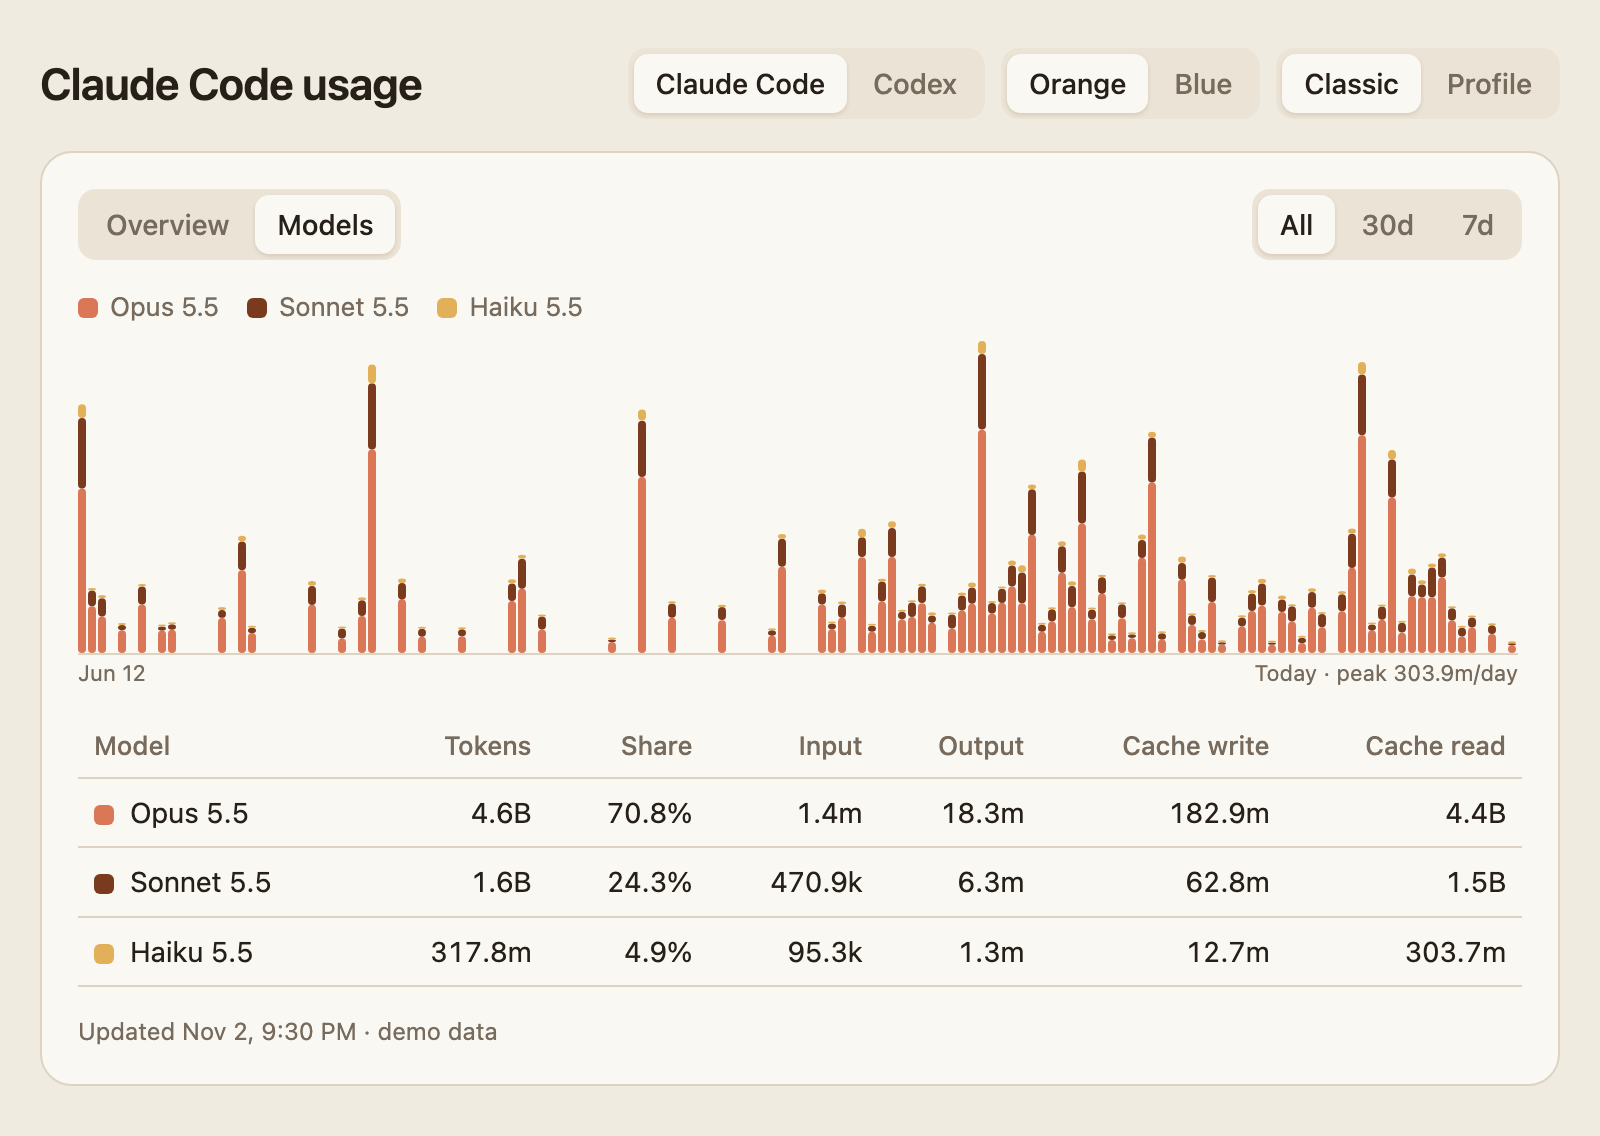
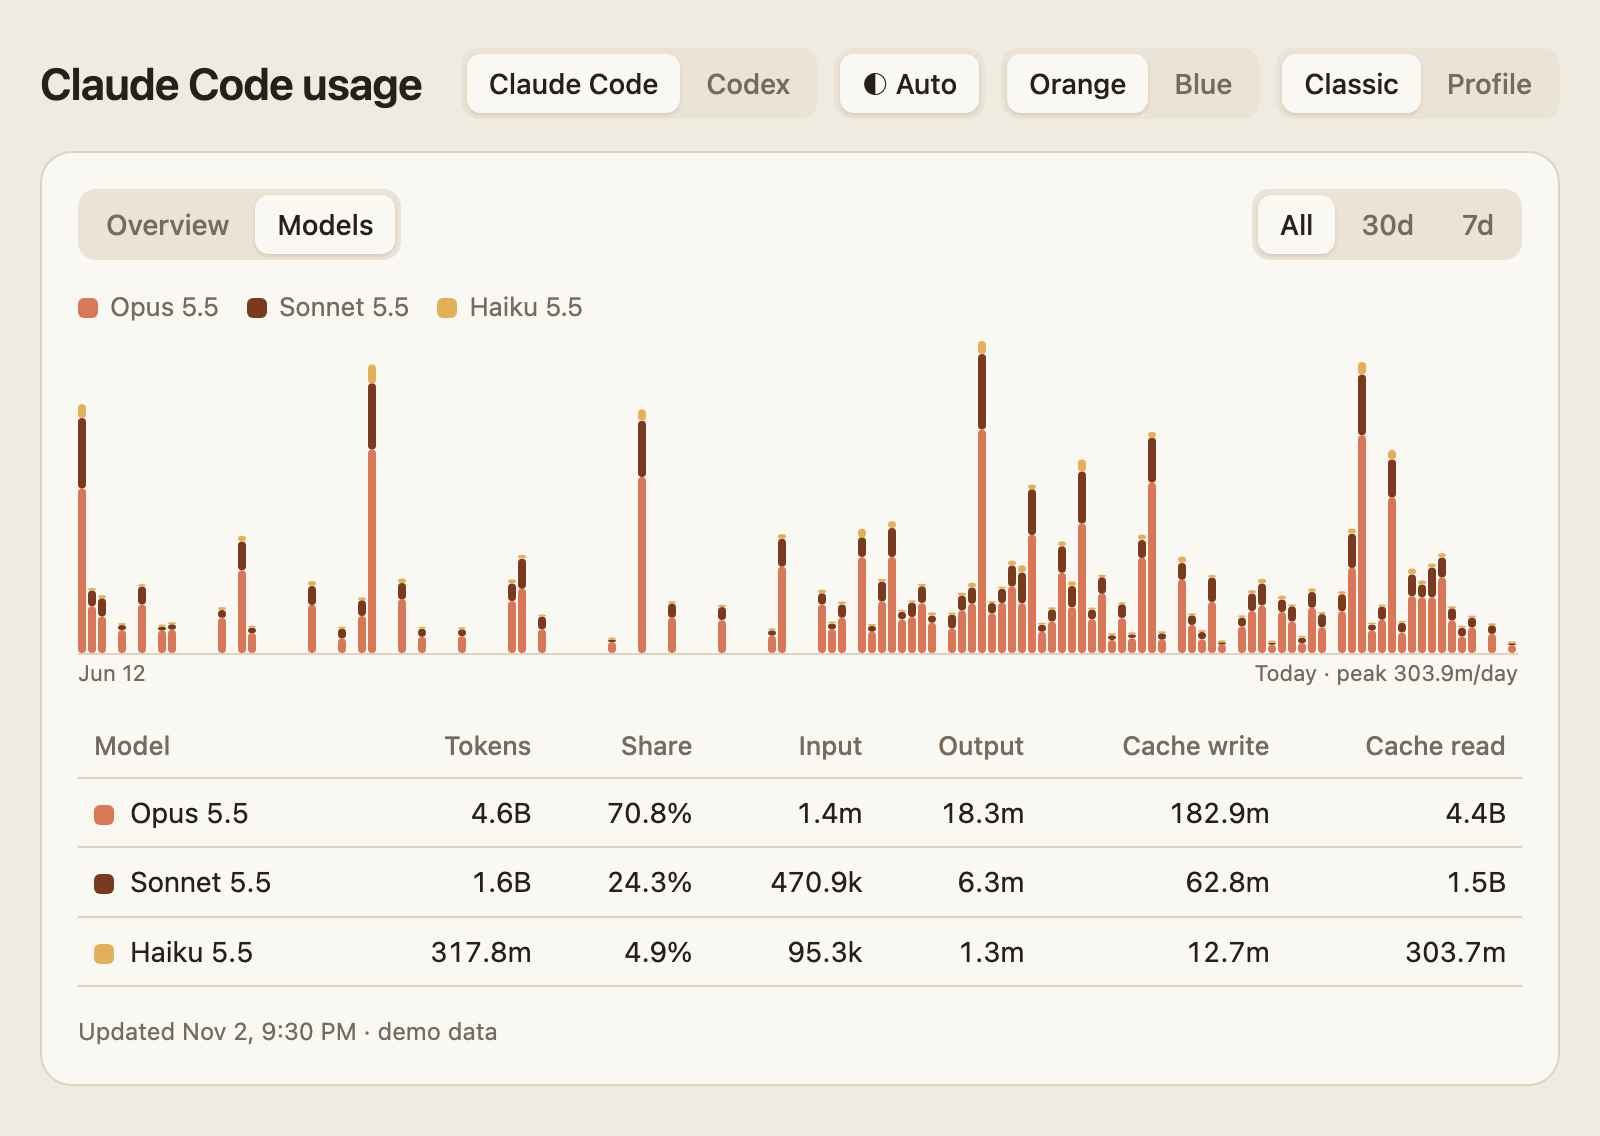
Add auto, light and dark appearance
One button cycles the three, and auto follows the computer live. Both Classic themes gain a dark palette and Profile gains a light one, so Profile is no longer always dark.

Changed region(s): [[0.3125, 0.0308, 0.625, 0.1232]]

diff --git a/docs/index.html b/docs/index.html
@@ -67,8 +67,14 @@
   .switches { display: flex; flex-wrap: wrap; gap: 8px; }
   html.blue { --ground: #fcfcfb; --card: #f0f0ef; --tile: #d9d9d8; --line: #e2e2e0; --ink: #1f1f1e; --muted: #7c7c79;
     --accent: #2566d0; --tip: #1f1f1e; --h0: #d9d9d8; --h1: #86acea; --h2: #6394e3; --h3: #407cdd; --h4: #2566d0; }
+  html.dark { color-scheme: dark; --ground: #1f1b16; --card: #2a241d; --tile: #352e25; --line: #453c31; --ink: #f3ece1; --muted: #a99c8b;
+    --accent: #e8875a; --tip: #4a4036; --h0: #3a3229; --h1: #6b3a22; --h2: #9c5230; --h3: #cf7347; --h4: #f0a274; }
+  html.blue.dark { --ground: #1c1c1b; --card: #262625; --tile: #333332; --line: #3d3d3b; --ink: #f2f2f0; --muted: #a0a09c;
+    --accent: #5a90e6; --tip: #454543; --h0: #333332; --h1: #1f4a96; --h2: #2f6bd1; --h3: #5a90e6; --h4: #8fb6f0; }
   html.profile { --ground: #171717; --card: #2b2b2b; --tile: #2b2b2b; --line: #333; --ink: #f4f4f4; --muted: #8f8f8f;
-    --tip: #3a3a3a; --h0: #2f2f2f; --h1: #16356b; --h2: #1f4f9c; --h3: #3b82f6; --h4: #7cb4f7; }
+    --tip: #3a3a3a; --h0: #2f2f2f; --h1: #16356b; --h2: #1f4f9c; --h3: #3b82f6; --h4: #7cb4f7; color-scheme: dark; }
+  html.profile.light { --ground: #fff; --card: #fff; --tile: #f0f0f0; --line: #e5e5e5; --ink: #171717; --muted: #6e6e6e;
+    --tip: #171717; --h0: #ececec; --h1: #bcd5fb; --h2: #7cb4f7; --h3: #3b82f6; --h4: #1f4f9c; color-scheme: light; }
   #profile { padding-top: 12px; }
   .who { text-align: center; }
   .avatar { width: 112px; height: 112px; margin: 0 auto 16px; border-radius: 50%; background: #98a6a6; color: #fff;
@@ -107,6 +113,7 @@
         <button data-source="claude">Claude Code</button>
         <button data-source="codex">Codex</button>
       </div>
+      <div class="seg"><button id="appearance" aria-pressed="true"></button></div>
       <div class="seg" id="themes">
         <button data-theme="orange">Orange</button>
         <button data-theme="blue">Blue</button>
@@ -192,7 +199,10 @@ const LUCK = Math.random();
 const PALETTES = {
   orange: ["#d97757", "#7a3a1e", "#e3b05a", "#8a6d3b", "#5f86c9", "#a86fc4", "#6b8a3a", "#9a8f7a"],
   blue: ["#2566d0", "#6394e3", "#86acea", "#1b4a96", "#a9c4f0", "#407cdd", "#c6d8f5", "#7c7c79"],
+  orangeDark: ["#e8875a", "#f2c14e", "#b5764a", "#d9c2a0", "#7da7e0", "#c08fd6", "#9bbb5e", "#a99c8b"],
+  blueDark: ["#5a90e6", "#9cc0f5", "#2f6bd1", "#c6d8f5", "#3e5f9c", "#7f9fd6", "#e0e0dc", "#a0a09c"],
 };
+const LOOKS = { auto: "◐ Auto", light: "☀ Light", dark: "☾ Dark" };
 
 const pick = (k, d) => { try { return localStorage.getItem(k) || d; } catch { return d; } };
 const keep = (k, v) => { try { localStorage.setItem(k, v); } catch {} };
@@ -200,10 +210,14 @@ let tab = pick("cu.tab", "overview");
 let range = pick("cu.range", "all");
 let style = pick("cu.style", "card");
 let theme = pick("cu.theme", "orange");
+let appearance = pick("cu.appearance", "auto");
 let mode = pick("cu.mode", "daily");
 let source = new URLSearchParams(location.search).get("source") || pick("cu.source", "claude");
 if (!SOURCES[source]) source = SOURCES.claude ? "claude" : "codex";
 let DATA;
+
+const systemDark = matchMedia("(prefers-color-scheme: dark)");
+const isDark = () => appearance === "dark" || appearance === "auto" && systemDark.matches;
 
 const fmt = n => {
   const units = [[1e9, "B"], [1e6, "m"], [1e3, "k"]];
@@ -364,7 +378,7 @@ function drawModels(s) {
   // Models under 0.05% of the range are noise: leftovers from a retry or a one-off test.
   const names = Object.keys(s.models).filter(n => sum(s.models[n]) >= s.total * 0.0005)
     .sort((a, b) => sum(s.models[b]) - sum(s.models[a]));
-  const palette = PALETTES[theme];
+  const palette = PALETTES[theme + (isDark() ? "Dark" : "")];
   const color = Object.fromEntries(RANKED.map((n, i) => [n, palette[i % palette.length]]));
   document.getElementById("keys").innerHTML = names.map(n => `<span style="--c:${color[n]}">${n}</span>`).join("");
 
@@ -511,6 +525,9 @@ function draw() {
   document.querySelectorAll("#sources button").forEach(b => b.setAttribute("aria-pressed", b.dataset.source === source));
   document.documentElement.classList.toggle("profile", isProfile);
   document.documentElement.classList.toggle("blue", theme === "blue" && !isProfile);
+  document.documentElement.classList.toggle("dark", isDark() && !isProfile);
+  document.getElementById("appearance").textContent = LOOKS[appearance];
+  document.documentElement.classList.toggle("light", !isDark() && isProfile);
   document.getElementById("themes").hidden = isProfile;
   document.querySelectorAll("#themes button").forEach(b => b.setAttribute("aria-pressed", b.dataset.theme === theme));
   document.getElementById("profile").hidden = !isProfile;
@@ -540,6 +557,13 @@ function draw() {
     const b = e.target.closest("button"); if (!b) return;
     set(b.dataset[key]); keep("cu." + key, b.dataset[key]); draw();
   }));
+document.getElementById("appearance").addEventListener("click", () => {
+  const order = Object.keys(LOOKS);
+  appearance = order[(order.indexOf(appearance) + 1) % order.length];
+  keep("cu.appearance", appearance);
+  draw();
+});
+systemDark.addEventListener("change", draw);
 // Our own tooltip: shows at once, unlike the browser's built-in one.
 const tip = document.getElementById("tip");
 document.addEventListener("mousemove", e => {

diff --git a/template.html b/template.html
@@ -68,8 +68,14 @@
   .switches { display: flex; flex-wrap: wrap; gap: 8px; }
   html.blue { --ground: #fcfcfb; --card: #f0f0ef; --tile: #d9d9d8; --line: #e2e2e0; --ink: #1f1f1e; --muted: #7c7c79;
     --accent: #2566d0; --tip: #1f1f1e; --h0: #d9d9d8; --h1: #86acea; --h2: #6394e3; --h3: #407cdd; --h4: #2566d0; }
+  html.dark { color-scheme: dark; --ground: #1f1b16; --card: #2a241d; --tile: #352e25; --line: #453c31; --ink: #f3ece1; --muted: #a99c8b;
+    --accent: #e8875a; --tip: #4a4036; --h0: #3a3229; --h1: #6b3a22; --h2: #9c5230; --h3: #cf7347; --h4: #f0a274; }
+  html.blue.dark { --ground: #1c1c1b; --card: #262625; --tile: #333332; --line: #3d3d3b; --ink: #f2f2f0; --muted: #a0a09c;
+    --accent: #5a90e6; --tip: #454543; --h0: #333332; --h1: #1f4a96; --h2: #2f6bd1; --h3: #5a90e6; --h4: #8fb6f0; }
   html.profile { --ground: #171717; --card: #2b2b2b; --tile: #2b2b2b; --line: #333; --ink: #f4f4f4; --muted: #8f8f8f;
-    --tip: #3a3a3a; --h0: #2f2f2f; --h1: #16356b; --h2: #1f4f9c; --h3: #3b82f6; --h4: #7cb4f7; }
+    --tip: #3a3a3a; --h0: #2f2f2f; --h1: #16356b; --h2: #1f4f9c; --h3: #3b82f6; --h4: #7cb4f7; color-scheme: dark; }
+  html.profile.light { --ground: #fff; --card: #fff; --tile: #f0f0f0; --line: #e5e5e5; --ink: #171717; --muted: #6e6e6e;
+    --tip: #171717; --h0: #ececec; --h1: #bcd5fb; --h2: #7cb4f7; --h3: #3b82f6; --h4: #1f4f9c; color-scheme: light; }
   #profile { padding-top: 12px; }
   .who { text-align: center; }
   .avatar { width: 112px; height: 112px; margin: 0 auto 16px; border-radius: 50%; background: #98a6a6; color: #fff;
@@ -108,6 +114,7 @@
         <button data-source="claude">Claude Code</button>
         <button data-source="codex">Codex</button>
       </div>
+      <div class="seg"><button id="appearance" aria-pressed="true"></button></div>
       <div class="seg" id="themes">
         <button data-theme="orange">Orange</button>
         <button data-theme="blue">Blue</button>
@@ -193,7 +200,10 @@ const LUCK = Math.random();
 const PALETTES = {
   orange: ["#d97757", "#7a3a1e", "#e3b05a", "#8a6d3b", "#5f86c9", "#a86fc4", "#6b8a3a", "#9a8f7a"],
   blue: ["#2566d0", "#6394e3", "#86acea", "#1b4a96", "#a9c4f0", "#407cdd", "#c6d8f5", "#7c7c79"],
+  orangeDark: ["#e8875a", "#f2c14e", "#b5764a", "#d9c2a0", "#7da7e0", "#c08fd6", "#9bbb5e", "#a99c8b"],
+  blueDark: ["#5a90e6", "#9cc0f5", "#2f6bd1", "#c6d8f5", "#3e5f9c", "#7f9fd6", "#e0e0dc", "#a0a09c"],
 };
+const LOOKS = { auto: "◐ Auto", light: "☀ Light", dark: "☾ Dark" };
 
 const pick = (k, d) => { try { return localStorage.getItem(k) || d; } catch { return d; } };
 const keep = (k, v) => { try { localStorage.setItem(k, v); } catch {} };
@@ -201,10 +211,14 @@ let tab = pick("cu.tab", "overview");
 let range = pick("cu.range", "all");
 let style = pick("cu.style", "card");
 let theme = pick("cu.theme", "orange");
+let appearance = pick("cu.appearance", "auto");
 let mode = pick("cu.mode", "daily");
 let source = new URLSearchParams(location.search).get("source") || pick("cu.source", "claude");
 if (!SOURCES[source]) source = SOURCES.claude ? "claude" : "codex";
 let DATA;
+
+const systemDark = matchMedia("(prefers-color-scheme: dark)");
+const isDark = () => appearance === "dark" || appearance === "auto" && systemDark.matches;
 
 const fmt = n => {
   const units = [[1e9, "B"], [1e6, "m"], [1e3, "k"]];
@@ -365,7 +379,7 @@ function drawModels(s) {
   // Models under 0.05% of the range are noise: leftovers from a retry or a one-off test.
   const names = Object.keys(s.models).filter(n => sum(s.models[n]) >= s.total * 0.0005)
     .sort((a, b) => sum(s.models[b]) - sum(s.models[a]));
-  const palette = PALETTES[theme];
+  const palette = PALETTES[theme + (isDark() ? "Dark" : "")];
   const color = Object.fromEntries(RANKED.map((n, i) => [n, palette[i % palette.length]]));
   document.getElementById("keys").innerHTML = names.map(n => `<span style="--c:${color[n]}">${n}</span>`).join("");
 
@@ -512,6 +526,9 @@ function draw() {
   document.querySelectorAll("#sources button").forEach(b => b.setAttribute("aria-pressed", b.dataset.source === source));
   document.documentElement.classList.toggle("profile", isProfile);
   document.documentElement.classList.toggle("blue", theme === "blue" && !isProfile);
+  document.documentElement.classList.toggle("dark", isDark() && !isProfile);
+  document.getElementById("appearance").textContent = LOOKS[appearance];
+  document.documentElement.classList.toggle("light", !isDark() && isProfile);
   document.getElementById("themes").hidden = isProfile;
   document.querySelectorAll("#themes button").forEach(b => b.setAttribute("aria-pressed", b.dataset.theme === theme));
   document.getElementById("profile").hidden = !isProfile;
@@ -541,6 +558,13 @@ function draw() {
     const b = e.target.closest("button"); if (!b) return;
     set(b.dataset[key]); keep("cu." + key, b.dataset[key]); draw();
   }));
+document.getElementById("appearance").addEventListener("click", () => {
+  const order = Object.keys(LOOKS);
+  appearance = order[(order.indexOf(appearance) + 1) % order.length];
+  keep("cu.appearance", appearance);
+  draw();
+});
+systemDark.addEventListener("change", draw);
 // Our own tooltip: shows at once, unlike the browser's built-in one.
 const tip = document.getElementById("tip");
 document.addEventListener("mousemove", e => {

diff --git a/tests/page_harness.js b/tests/page_harness.js
@@ -1,5 +1,5 @@
 // Runs the page's script against a small stand-in for the browser and prints what it drew.
-// Input on stdin: {html, language, storage, search, luck, clicks: [[elementId, dataset], ...]}.
+// Input on stdin: {html, language, storage, search, luck, systemDark, clicks: [[elementId, dataset], ...]}.
 const vm = require("vm");
 
 const input = JSON.parse(require("fs").readFileSync(0, "utf8"));
@@ -43,6 +43,7 @@ const sandbox = {
   location: { search: input.search || "", pathname: "/" },
   history: { replaceState: (state, title, url) => { addressBar.push(url); } },
   URLSearchParams,
+  matchMedia: () => ({ matches: !!input.systemDark, addEventListener() {} }),
   addEventListener() {},
   setTimeout,
   clearTimeout,

diff --git a/tests/test_page.py b/tests/test_page.py
@@ -41,12 +41,12 @@ CODEX = {
 
 @unittest.skipUnless(shutil.which("node"), "needs Node to run the page's script")
 class PageTests(unittest.TestCase):
-    def page(self, payload=None, language="en-US", storage=None, search="", clicks=()):
+    def page(self, payload=None, language="en-US", storage=None, search="", clicks=(), system_dark=False):
         template = (ROOT / "template.html").read_text(encoding="utf-8")
         page = template.replace("/*__DATA__*/null", json.dumps(payload or data()))
         run = subprocess.run(["node", str(HARNESS)], capture_output=True, text=True, timeout=30, encoding="utf-8",
                              input=json.dumps({"html": page, "language": language, "storage": storage,
-                                               "search": search, "clicks": list(clicks)}))
+                                               "search": search, "clicks": list(clicks), "systemDark": system_dark}))
         self.assertEqual(run.returncode, 0, run.stderr)
         return json.loads(run.stdout)
 
@@ -112,6 +112,31 @@ class PageTests(unittest.TestCase):
         self.assertEqual(result["classes"], ["blue"])
         self.assertEqual(result["storage"]["cu.theme"], "blue")
 
+    def test_appearance_follows_the_computer_by_default(self):
+        self.assertEqual(self.page()["classes"], [])
+        self.assertEqual(self.page(system_dark=True)["classes"], ["dark"])
+
+    def test_the_button_cycles_auto_light_and_dark_and_is_remembered(self):
+        result = self.page(system_dark=True, clicks=[("appearance", {})])
+        self.assertEqual((result["classes"], result["elements"]["appearance"]["text"]), ([], "☀ Light"))
+        self.assertEqual(result["storage"]["cu.appearance"], "light")
+        result = self.page(clicks=[("appearance", {}), ("appearance", {})])
+        self.assertEqual((result["classes"], result["elements"]["appearance"]["text"]), (["dark"], "☾ Dark"))
+        result = self.page(storage={"cu.appearance": "dark"}, clicks=[("appearance", {})])
+        self.assertEqual(result["elements"]["appearance"]["text"], "◐ Auto")
+
+    def test_model_colors_change_in_the_dark(self):
+        html = self.page(storage={"cu.appearance": "dark"}, clicks=[("tabs", {"tab": "models"})])["elements"]["mtable"]["html"]
+        self.assertIn("#e8875a", html)
+        self.assertNotIn("#d97757", html)
+
+    def test_profile_has_a_light_and_a_dark_look(self):
+        self.assertEqual(self.page(storage={"cu.style": "profile"})["classes"], ["profile", "light"])
+        self.assertEqual(self.page(storage={"cu.style": "profile"}, system_dark=True)["classes"], ["profile"])
+        light = self.page(storage={"cu.style": "profile", "cu.appearance": "light"}, system_dark=True)
+        self.assertEqual(light["classes"], ["profile", "light"])
+        self.assertEqual(light["elements"]["appearance"]["text"], "☀ Light")
+
     def test_profile_follows_the_system_language(self):
         chinese = self.page(data(models={OPUS: [2480000000, 0, 0, 0]},
                                  days={"2026-01-01": {"m": 1, "tm": {OPUS: 2480000000}, "sp": None, "sc": 1}}),
@@ -123,7 +148,7 @@ class PageTests(unittest.TestCase):
         self.assertIn("Updated", english["elements"]["pfoot"]["text"])
 
     def test_profile_hides_the_theme_switch_and_ignores_the_theme(self):
-        result = self.page(storage={"cu.theme": "blue", "cu.style": "profile"})
+        result = self.page(storage={"cu.theme": "blue", "cu.style": "profile"}, system_dark=True)
         self.assertEqual(result["classes"], ["profile"])
         self.assertTrue(result["elements"]["themes"]["hidden"])
         self.assertFalse(result["elements"]["profile"]["hidden"])

diff --git a/README.md b/README.md
@@ -21,7 +21,7 @@ Unofficial; not affiliated with Anthropic or OpenAI.
 - **Classic and Profile**: the card above, or a profile page with five totals and a year of daily, weekly or cumulative tokens. Profile follows your browser's language.
 - All / 30d / 7d ranges. Hover anything for exact values. Streaks and the heatmap always cover your whole history.
 - **Longest task** runs from a message you send to the end of the reply. A gap over 30 minutes ends it, so a sleeping computer doesn't count.
-- Pick an orange or a blue color theme (Classic only).
+- Pick auto, light or dark appearance, where auto follows your computer, and an orange or a blue color theme for Classic.
 
 When the numbers update:
 
